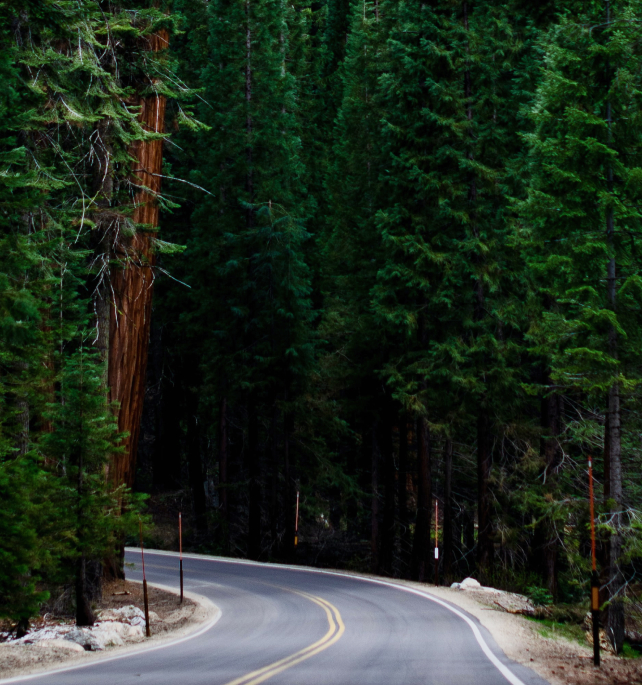
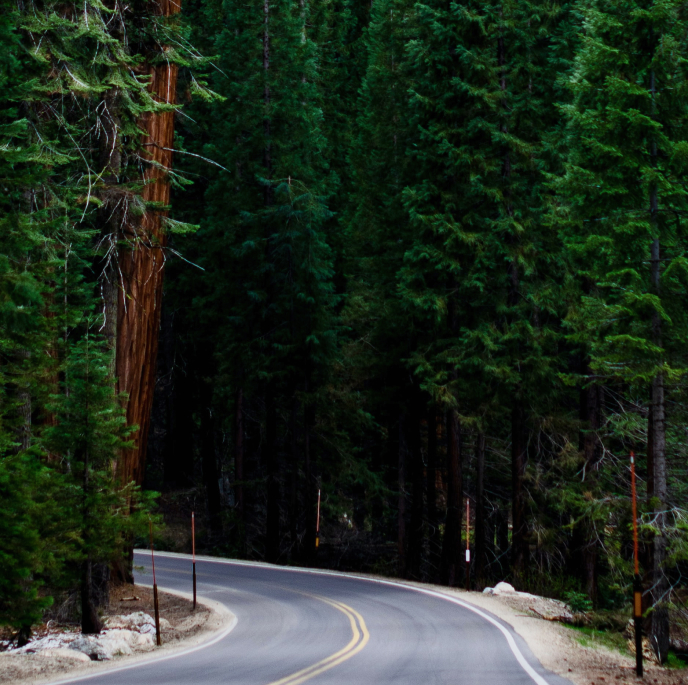
feat: добавить блок camera, поправить размеры изображений в блоках

diff --git a/src/index.html b/src/index.html
@@ -34,7 +34,7 @@
           </li>
 
           <li class="header__nav-link-container">
-            <a class="header__nav-link" href="#">Камера</a>
+            <a class="header__nav-link" href="#camera">Камера</a>
           </li>
 
           <li class="header__nav-link-container">
@@ -52,7 +52,8 @@
     
     <section class="section two-columns intro">
       <h1 class="main-title two-columns__title">Курс по фотографии</h1>
-      <img class="two-columns__img" src="<%=require('./images/intro-image.jpg')%>" alt="изображение хвойного леса">
+      <!-- <img class="two-columns__img" src="<%=require('./images/intro-image.jpg')%>" alt="изображение хвойного леса"> -->
+      <div class="two-columns__img intro__img"></div>
       <div class="two-columns__text">
         <p class="intro__paragraph">Фотография в природных условиях, уроки по композиции и по пользованию камерой.</p>
       </div>
@@ -62,10 +63,11 @@
     <section class="section composition">
 
       <span class="section__nav-item" id="composition">Композиция</span>
-      
+
       <div class="two-columns">
         <h2 class="two-columns__title composition__title">Изучите композицию</h2>
-        <img class="two-columns__img" src="<%=require('./images/composition-image.jpg')%>" alt="изображение дороги, уходящей в хвойный лес">
+        <!-- <img class="two-columns__img composition__img" src="<%=require('./images/composition-image.jpg')%>" alt="изображение дороги, уходящей в хвойный лес"> -->
+        <div class="two-columns__img composition__img"></div>
         <div class="two-columns__text">
           <p class="composition__paragraph">Вы изучите гармоничное размещение всех элементов изображения на <span class="span-accent">снимке</span>.</p>
           <p class="composition__paragraph">Изучите композицию интуитивную и&nbsp;какие&#8209;то&nbsp;определённые законы.</p>
@@ -78,6 +80,43 @@
         <li class="composition__list-item">Простота: убирай всё лишнее и кадрируй!</li>
         <li class="composition__list-item">Равновесие: уравновесь пятна объекта и фона.</li>
         <li class="composition__list-item">3D глубина кадра: расположи объект позади и перед другими предметами.</li>
+      </ul>
+
+    </section>
+
+    <section class="section camera">
+
+      <span class="section__nav-item section__nav-item_theme_dark" id="camera">камера</span>
+
+      <div class="two-columns">
+        <h2 class="two-columns__title camera__title">
+          <span class="camera__title-item">Настройка</span>
+          <span class="camera__title-item">Съемка</span>
+          <span class="camera__title-item">Обработка</span>
+        </h2>
+        <!-- <img class="two-columns__img camera__img" src="<%=require('./images/camera-image.jpg')%>" alt="изображение густового лиственного леса со множеством папоротника"> -->
+        <div class="two-columns__img camera__img"></div>
+        <h3 class="camera__list-title">отзывы про часть о камерах:</h3>
+      </div>
+
+      <ul class="camera__list">
+
+        <li class="camera__list-item">
+          <blockquote class="camera__quote">на этом курсе я научился пользоваться камерой, как настоящий профессионал!</blockquote>
+          <div class="camera__quote-author-container">
+            <p class="camera__quote-author">Питер, водитель.</p>
+            <p class="camera__quote-author-subline">@piter123</p>
+          </div>
+        </li>
+
+        <li class="camera__list-item">
+          <blockquote class="camera__quote">супер крутой курс! на&nbsp;части про фотики я&nbsp;стал разбираться в предназначении кнопок</blockquote>
+          <div class="camera__quote-author-container">
+            <p class="camera__quote-author">Джон, спортсмен.</p>
+            <p class="camera__quote-author-subline">@john_sport</p>
+          </div>
+        </li>
+        
       </ul>
 
     </section>

diff --git a/src/pages/index.sass b/src/pages/index.sass
@@ -33,6 +33,7 @@
 // section
 @import '../blocks/section/section'
 @import '../blocks/section/__nav-item/section__nav-item'
+@import '../blocks/section/__nav-item/_theme/section__nav-item_theme_dark'
 
 // main-title
 @import '../blocks/main-title/main-title'
@@ -48,14 +49,29 @@
 // intro
 @import '../blocks/intro/intro'
 @import '../blocks/intro/__paragraph/intro__paragraph'
+@import '../blocks/intro/__img/intro__img'
 @import '../blocks/intro/__link-button/intro__link-button'
 
 // composition
 @import '../blocks/composition/composition'
 @import '../blocks/composition/__title/composition__title'
 @import '../blocks/composition/__paragraph/composition__paragraph'
+@import '../blocks/composition/__img/composition__img'
 @import '../blocks/composition/__list/composition__list'
 @import '../blocks/composition/__list-item/composition__list-item'
+
+// camera
+@import '../blocks/camera/camera'
+@import '../blocks/camera/__title/camera__title'
+@import '../blocks/camera/__title-item/camera__title-item'
+@import '../blocks/camera/__img/camera__img'
+@import '../blocks/camera/__list-title/camera__list-title'
+@import '../blocks/camera/__list/camera__list'
+@import '../blocks/camera/__list-item/camera__list-item'
+@import '../blocks/camera/__quote/camera__quote'
+@import '../blocks/camera/__quote-author-container/camera__quote-author-container'
+@import '../blocks/camera/__quote-author/camera__quote-author'
+@import '../blocks/camera/__quote-author-subline/camera__quote-author-subline'
 
 // footer
 @import '../blocks/footer/footer'

diff --git a/src/blocks/camera/__list-item/camera__list-item.sass b/src/blocks/camera/__list-item/camera__list-item.sass
@@ -1,27 +1,25 @@
-.composition__list-item
+.camera__list-item
   position: relative
-  font-weight: 400
-  font-size: 14px
-  line-height: 18px
+  display: grid
+  row-gap: 30px
 
   &::after
     content: ''
     position: absolute
-    top: calc(100% + 14px)
+    top: calc(100% + 30px)
     left: 0
     width: 100%
     height: 1px
-    background-color: $color-black
+    background-color: $color-white
 
   &:last-of-type::after
-    display: none    
+    display: none
 
   @media screen and (min-width: $tablet-width)
-    font-size: 18px
-    line-height: 28px
+    row-gap: 60px
 
     &::after
-      top: calc(100% + 30px)
+      top: calc(100% + 60px)
 
   @media screen and (min-width: $desktop-width)
 

diff --git a/src/blocks/composition/__img/composition__img.sass b/src/blocks/composition/__img/composition__img.sass
@@ -1,0 +1,14 @@
+.composition__img
+  width: 100%
+  background-image: url('../images/composition-image.jpg')
+  background-size: cover
+  background-position: bottom center
+  background-repeat: no-repeat
+  padding-bottom: 99%
+
+  @media screen and (min-width: $tablet-width)
+    padding-bottom: 99.5%
+
+  @media screen and (min-width: $desktop-width)
+   height: 685px
+   padding-bottom: 0

diff --git a/src/blocks/camera/__img/camera__img.sass b/src/blocks/camera/__img/camera__img.sass
@@ -1,0 +1,14 @@
+.camera__img
+  width: 100%
+  background-image: url('../images/camera-image.jpg')
+  background-size: cover
+  background-position: top 10% left 0
+  background-repeat: no-repeat
+  padding-bottom: 96%
+
+  @media screen and (min-width: $tablet-width)
+    padding-bottom: 95.4%
+
+  @media screen and (min-width: $desktop-width)
+   height: 832px
+   padding-bottom: 0

diff --git a/src/blocks/intro/__img/intro__img.sass b/src/blocks/intro/__img/intro__img.sass
@@ -1,0 +1,14 @@
+.intro__img
+  width: 100%
+  background-image: url('../images/intro-image.jpg')
+  background-size: cover
+  background-position: bottom center
+  background-repeat: no-repeat
+  padding-bottom: 86.4%
+
+  @media screen and (min-width: $tablet-width)
+    padding-bottom: 86.4%
+
+  @media screen and (min-width: $desktop-width)
+   height: 685px
+   padding-bottom: 0

diff --git a/src/blocks/camera/__list/camera__list.sass b/src/blocks/camera/__list/camera__list.sass
@@ -1,0 +1,14 @@
+.camera__list
+  list-style: none
+  display: grid
+  row-gap: 60px
+  padding: 0
+  margin: 50px 0 0
+
+  @media screen and (min-width: $tablet-width)
+    margin-top: 180px
+    row-gap: 120px
+
+  @media screen and (min-width: $desktop-width)
+    grid-template-columns: repeat(2, 526px)
+    column-gap: 172px

diff --git a/src/blocks/camera/__list-title/camera__list-title.sass b/src/blocks/camera/__list-title/camera__list-title.sass
@@ -1,0 +1,13 @@
+.camera__list-title
+  font-weight: 400
+  font-size: 14px
+  line-height: 20px
+  text-transform: uppercase
+  margin: 0
+
+  @media screen and (min-width: $tablet-width)
+    font-size: 18px
+    line-height: 28px
+
+  @media screen and (min-width: $desktop-width)
+    grid-row: 3/4

diff --git a/src/blocks/camera/__title/camera__title.sass b/src/blocks/camera/__title/camera__title.sass
@@ -1,0 +1,12 @@
+.camera__title
+  font-weight: 400
+  font-size: 48px
+  line-height: 56px
+  margin: 0
+
+  @media screen and (min-width: $tablet-width)
+    font-size: 122px
+    line-height: 122px
+
+  @media screen and (min-width: $desktop-width)
+    margin-top: 78px

diff --git a/src/blocks/two-columns/two-columns.sass b/src/blocks/two-columns/two-columns.sass
@@ -5,7 +5,7 @@
 
   @media screen and (min-width: $desktop-width)
     grid-template-columns: 648px 1fr
-    grid-auto-rows: min-content 1fr min-content
+    grid-template-rows: min-content 1fr min-content
     column-gap: 52px
     padding-top: 50px
 

diff --git a/src/blocks/camera/__quote-author-subline/camera__quote-author-subline.sass b/src/blocks/camera/__quote-author-subline/camera__quote-author-subline.sass
@@ -1,0 +1,9 @@
+.camera__quote-author-subline
+  font-weight: 400
+  font-size: 12px
+  line-hright: 12px
+  margin: 0
+
+  @media screen and (min-width: $tablet-width)
+    font-size: 14px
+    line-height: 24px

diff --git a/src/blocks/camera/__quote-author/camera__quote-author.sass b/src/blocks/camera/__quote-author/camera__quote-author.sass
@@ -1,0 +1,9 @@
+.camera__quote-author
+  font-weight: 400
+  font-size: 14px
+  line-height: 20px
+  margin: 0
+
+  @media screen and (min-width: $tablet-width)
+    font-size: 18px
+    line-height: 28px
